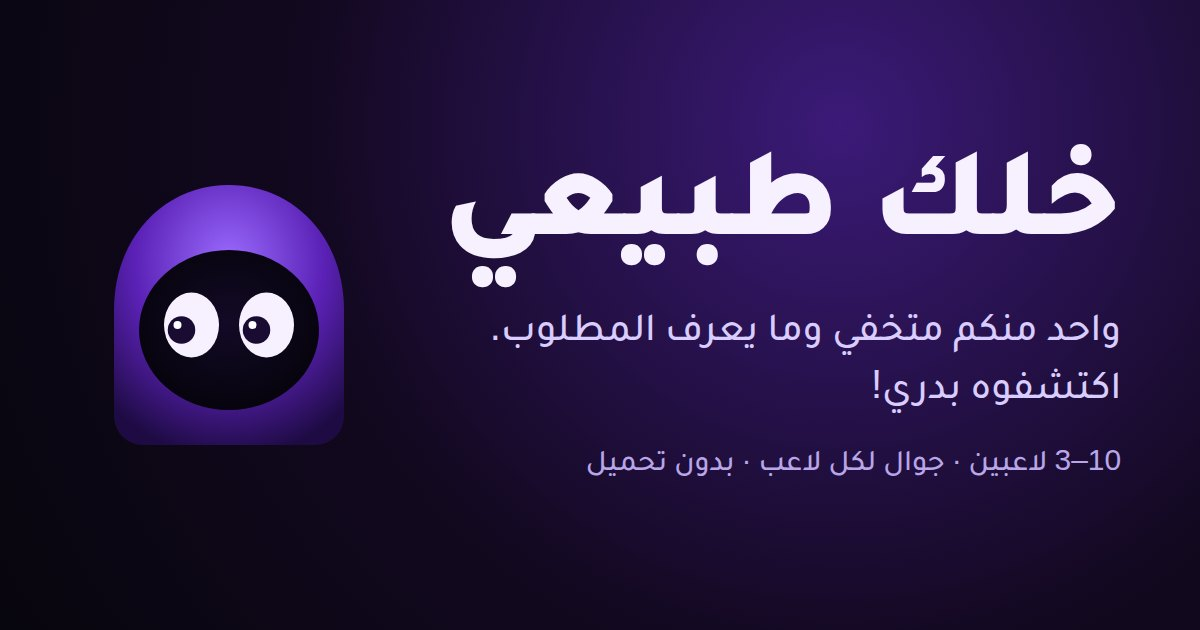
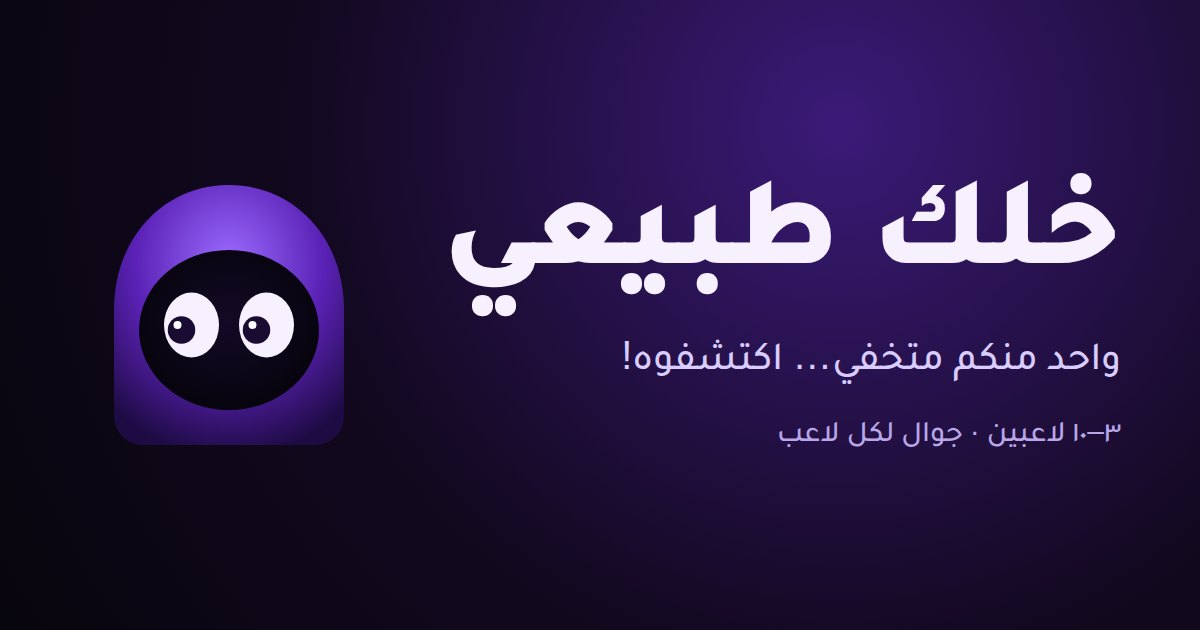
Apply the reviewed Arabic copy, link preview and first-time-player hints
Vote nudge, confirm and undo wording, end-game and close-room dialogs,
runtime and room-closed notices, meta/og descriptions, regenerated og.jpg,
a hint above the vote list, the owner-plays note, and neutral rules wording.

Claude-Session: https://claude.ai/code/session_017yJz3WryD3V2yimSvyagK2

Changed region(s): [[0.37, 0.2111, 0.9558, 0.754]]

diff --git a/client/src/net/socket.ts b/client/src/net/socket.ts
@@ -264,7 +264,7 @@ function dispatch(socket: WebSocket, message: ServerMessage): void {
       expectedRoomExit = false;
       authenticated(socket, message);
       set({ uid: message.uid, view: null, ...(hadRoom && !intendedExit ? {
-        notice: "لم تعد الغرفة متاحة أو انتهى مكانك فيها. أنشئ غرفة جديدة أو ادخل برمز جديد.",
+        notice: "الغرفة مو متاحة، أو مكانك فيها انتهى. سوّ غرفة جديدة أو ادخل برمز غرفة جديد.",
       } : {}) });
       if (hadRoom) clearPendingMatching(socket, () => true);
       break;
@@ -287,8 +287,8 @@ function dispatch(socket: WebSocket, message: ServerMessage): void {
     case "VOTE_IGNORED":
       if (message.rid) clearPending(message.rid, socket);
       feedback(message.reason === "CLOSED"
-        ? "انتهى وقت التصويت قبل وصول صوتك؛ ما تسجّل."
-        : "هذا التصويت كان لتحدّي سابق؛ اختر تصويتك للتحدّي الحالي.");
+        ? "خلص وقت التصويت قبل ما يوصل صوتك، وما تسجّل."
+        : "صوتك كان لتحدّي سابق وما تسجّل. إذا التصويت مفتوح الحين، اختر لاعب وأكّد تصويتك.");
       break;
     case "ERROR":
       if (message.rid && ["LEAVE_ROOM", "CLOSE_ROOM"].includes(pending.get(message.rid)?.type ?? "")) expectedRoomExit = false;
@@ -299,7 +299,7 @@ function dispatch(socket: WebSocket, message: ServerMessage): void {
     case "ROOM_CLOSED":
       expectedRoomExit = false;
       clearPendingMatching(socket, () => true);
-      set({ view: null, notice: "انتهت الغرفة. تقدر تنشئ غرفة جديدة أو تدخل برمز جديد." });
+      set({ view: null, notice: "الغرفة تقفلت. تقدر تسوّي غرفة جديدة أو تدخل برمز غرفة جديد." });
       break;
     case "KICKED":
       expectedRoomExit = false;
@@ -570,7 +570,7 @@ export const actions = {
       // Only pre-empt the deadline with a server-anchored clock. An unsynchronized
       // device clock can be far off; the server's own deadline stays authoritative.
       (view.room.phaseEndsAt !== undefined && serverClock.isSynchronized() && serverClock.now() >= view.room.phaseEndsAt)) {
-      feedback("التصويت هذا مو متاح الحين. انتظر تحديث حالة اللعبة.");
+      feedback("ما تقدر تصوّت الحين. انتظر لين تتحدّث اللعبة.");
       return null;
     }
     return sendAction({ t: "SUBMIT_VOTE", targetUid, voteContext });

diff --git a/client/src/screens/Player.tsx b/client/src/screens/Player.tsx
@@ -350,8 +350,9 @@ function PlayerVote({ view }: { view: ClientView }) {
             endsAt={view.room.phaseEndsAt}
             totalMs={TIMERS.VOTING}
             warningAtSeconds={VOTE_NUDGE_MS / 1_000}
-            warningText={picked ? "باقي ثواني — اضغط «أكّد» عشان ينحسب صوتك" : "باقي ثواني — اختر لاعب وأكّد صوتك"}
+            warningText={picked ? <>باقي ثواني — أكّد تصويتك على «<bdi>{pickedName}</bdi>»</> : "باقي ثواني — اختر لاعب، ثم أكّد تصويتك"}
           />
+          <p className="vote-hint">اختر لاعب، ثم اضغط «أكّد التصويت».</p>
         </div>
         <div
           className={`vote-list stage-vote-grid${picked ? " has-pick" : ""}`}
@@ -386,8 +387,8 @@ function PlayerVote({ view }: { view: ClientView }) {
           {pickedName ? <>صوتك لـ <strong dir="auto">{pickedName}</strong></> : "اختر لاعب، وبعدها أكّد."}
         </div>
         <div className="stage-vote-actions">
-          <button className="btn btn-primary" disabled={!picked || status !== "online" || submitting} onClick={() => picked && actions.submitVote(picked, view.voteContext)}>{submitting ? "جارٍ تسجيل صوتك…" : pickedName ? `أكّد التصويت على ${pickedName}` : "تأكيد التصويت"}</button>
-          {picked ? <button type="button" className="btn btn-quiet btn-sm stage-vote-undo" disabled={submitting} onClick={() => setPicked(null)}>تراجع</button> : null}
+          <button className="btn btn-primary" disabled={!picked || status !== "online" || submitting} onClick={() => picked && actions.submitVote(picked, view.voteContext)}>{submitting ? "نسجّل صوتك…" : pickedName ? `أكّد التصويت على ${pickedName}` : "أكّد التصويت"}</button>
+          {picked ? <button type="button" className="btn btn-quiet btn-sm stage-vote-undo" disabled={submitting} onClick={() => setPicked(null)}>غيّر اختيارك</button> : null}
         </div>
         <p className="helper">أثناء التصويت يظهر فقط كم شخص صوّت. ما يظهر مين صوّت لمين، وما تقدر تغيّر صوتك بعد التأكيد.</p>
       </div>

diff --git a/client/index.html b/client/index.html
@@ -5,13 +5,13 @@
     <meta name="viewport" content="width=device-width, initial-scale=1.0, viewport-fit=cover" />
     <meta name="theme-color" content="#07050d" />
     <title>خلك طبيعي</title>
-    <meta name="description" content="لعبة جماعية بالجوال: واحد منكم متخفي وما يعرف المطلوب. اكتشفوه بدري! 3–10 لاعبين، بدون تحميل ولا تسجيل." />
+    <meta name="description" content="واحد منكم متخفي وما يعرف المطلوب. اكتشفوه! لـ٣–١٠ لاعبين، كل واحد بجواله. بدون تحميل ولا تسجيل." />
     <link rel="icon" href="/favicon.svg" type="image/svg+xml" />
     <meta property="og:type" content="website" />
     <meta property="og:locale" content="ar_SA" />
     <meta property="og:site_name" content="خلك طبيعي" />
     <meta property="og:title" content="خلك طبيعي — مين المتخفي بينكم؟" />
-    <meta property="og:description" content="لعبة جماعية بالجوال: واحد منكم متخفي وما يعرف المطلوب. اكتشفوه بدري! 3–10 لاعبين، بدون تحميل ولا تسجيل." />
+    <meta property="og:description" content="واحد منكم متخفي وما يعرف المطلوب. اكتشفوه! لـ٣–١٠ لاعبين، كل واحد بجواله. بدون تحميل ولا تسجيل." />
     <meta property="og:image" content="__PUBLIC_ORIGIN__/og.jpg" />
     <meta property="og:image:width" content="1200" />
     <meta property="og:image:height" content="630" />

diff --git a/server/test/client-socket-recovery.test.ts b/server/test/client-socket-recovery.test.ts
@@ -94,7 +94,7 @@ test("lost membership reconnect clears stale room, explains recovery and never r
     const snapshot = browser.socketModule.getGameSnapshot();
     assert.equal(snapshot.status, "online");
     assert.equal(snapshot.view, null);
-    assert.match(snapshot.notice, /لم تعد الغرفة متاحة أو انتهى مكانك فيها/);
+    assert.match(snapshot.notice, /الغرفة مو متاحة، أو مكانك فيها انتهى/);
     assert.equal(second.sent.some((message) => message.t === "JOIN_ROOM" || message.t === "SUBMIT_VOTE"), false);
     assert.equal(browser.socketModule.actions.submitVote("target", "old-context"), null);
     assert.ok(browser.socketModule.actions.createRoom("مالك"));
@@ -120,7 +120,7 @@ test("intentional leave stays quiet across interrupted transport and closure per
     second.receive({ t: "STATE", view: { self: { uid: "u", role: "player" }, room: { code: "FGHJK", phase: "LOBBY" }, players: [] } });
     second.receive({ t: "ROOM_CLOSED" });
     assert.equal(browser.socketModule.getGameSnapshot().view, null);
-    assert.match(browser.socketModule.getGameSnapshot().notice, /تنشئ غرفة جديدة أو تدخل برمز جديد/);
+    assert.match(browser.socketModule.getGameSnapshot().notice, /تسوّي غرفة جديدة أو تدخل برمز غرفة جديد/);
     browser.socketModule.clearNotice();
     const joinRid = browser.socketModule.actions.joinRoom("FGHJK", "لاعب");
     second.receive({ t: "ERROR", code: "ROOM_NOT_FOUND", rid: joinRid });

diff --git a/client/src/screens/Home.tsx b/client/src/screens/Home.tsx
@@ -90,7 +90,7 @@ function RulesTabs() {
       <div id="home-panel-how" role="tabpanel" aria-labelledby="home-tab-how" className="home-tab-panel" hidden={tab !== "how"} tabIndex={0}>
         <ol className="rule-steps">
           <li>كل واحد يشوف المطلوب سرًا، إلا المتخفي يعرف دوره بس ما يعرف المطلوب.</li>
-          <li>وقت العد تنفذون الحركة كلّكم بنفس اللحظة.</li>
+          <li>انتظروا إشارة الحركة، ثم سوّوها كلكم بنفس اللحظة.</li>
           <li>بعدها تناقشون: مين تصرفه مو طبيعي؟ ثم كل واحد يصوّت بجواله.</li>
           <li>الأغلبية تمسك المتخفي. إذا ما انمسك يكمل دوره حسب عدد اللاعبين: تحدّي واحد مع 3 لاعبين، تحدّيين مع 4، و3 تحدّيات مع 5 أو أكثر.</li>
         </ol>
@@ -195,7 +195,7 @@ export function Home() {
           <button className="btn btn-secondary" disabled={offline} onClick={() => { setLocalErr(null); setStep("code"); }}>
             ادخل غرفة
           </button>
-          <p className="helper home-actions-note">صاحب الغرفة لاعب مثل الباقين</p>
+          <p className="helper home-actions-note">صاحب الغرفة يلعب من جواله، والتلفزيون اختياري.</p>
         </div>
 
         <RulesTabs />

diff --git a/client/src/screens/Host.tsx b/client/src/screens/Host.tsx
@@ -36,7 +36,7 @@ export function Host({ view, confirmAction }: { view: ClientView; confirmAction:
   }
 }
 
-const CLOSE_ROOM_DESCRIPTION = "بتنقفل الغرفة على الكل، وأي أحد يبي يلعب بعدها لازم يدخل من جديد برمز غرفة جديدة.";
+const CLOSE_ROOM_DESCRIPTION = "بتتقفل الغرفة على الكل. عشان تلعبون بعدها، لازم تدخلون غرفة جديدة.";
 
 function requestClose(confirmAction: ConfirmAction, description = CLOSE_ROOM_DESCRIPTION) {
   confirmAction({
@@ -257,7 +257,7 @@ function HostGameOver({ view, confirmAction }: { view: ClientView; confirmAction
       <div className="owner-dock">
         <div className="owner-dock-row">
           <button className="btn btn-primary" onClick={() => actions.rematch()}>العبوا مرة ثانية</button>
-          <button className="btn btn-secondary" onClick={() => requestClose(confirmAction, `${CLOSE_ROOM_DESCRIPTION} إذا تبون تلعبون مرة ثانية بنفس الغرفة، اختر «العبوا مرة ثانية» بدل الإغلاق.`)}>إغلاق الغرفة</button>
+          <button className="btn btn-secondary" onClick={() => requestClose(confirmAction, `${CLOSE_ROOM_DESCRIPTION} تبون تكملون بنفس الغرفة؟ اختر «العبوا مرة ثانية».`)}>إغلاق الغرفة</button>
         </div>
       </div>
     </div>

diff --git a/server/test/ux-explanations.test.ts b/server/test/ux-explanations.test.ts
@@ -152,3 +152,14 @@ test("user-facing source locks the explainability and Arabic copy improvements",
   assert.equal(app.includes("عنوان IP"), false, "technical IP wording returned to room-management UI");
   assert.equal(app.includes("الهوية المجهولة الموقّعة"), false, "implementation-level identity wording returned");
 });
+
+test("vote copy separates picking from confirming and wraps the picked name in bdi", () => {
+  const player = readFileSync(new URL("../../client/src/screens/Player.tsx", import.meta.url), "utf8");
+  assert.ok(player.includes("باقي ثواني — اختر لاعب، ثم أكّد تصويتك"));
+  assert.match(player, /أكّد تصويتك على «<bdi>\{pickedName\}<\/bdi>»/);
+  assert.ok(player.includes("اختر لاعب، ثم اضغط «أكّد التصويت»."), "the hint above the list says picking is not voting");
+  assert.ok(player.includes("غيّر اختيارك") && !player.includes(">تراجع<"));
+  const home = readFileSync(new URL("../../client/src/screens/Home.tsx", import.meta.url), "utf8");
+  assert.ok(home.includes("صاحب الغرفة يلعب من جواله، والتلفزيون اختياري."));
+  assert.ok(!home.includes("وقت العد"));
+});

diff --git a/client/src/App.tsx b/client/src/App.tsx
@@ -260,8 +260,8 @@ export function App() {
               label="إنهاء اللعبة"
               onClick={() => openConfirm({
                 title: "إنهاء اللعبة الحالية؟",
-                description: "بترجعون كلكم لشاشة الانتظار في نفس الغرفة وبنفس اللاعبين، وتقدر تغيّر الإعدادات وتبدأ لعبة جديدة. نقاط اللعبة الحالية ما تنحسب. ولو تبي تقفل الغرفة نهائيًا، تلقى «إغلاق الغرفة» في شاشة الانتظار.",
-                confirmLabel: "إنهاء والرجوع للانتظار",
+                description: "بترجعون للانتظار بنفس الغرفة ونفس اللاعبين. نقاط هاللعبة ما تنحسب، وتقدر تغيّر الإعدادات وتبدأ من جديد.",
+                confirmLabel: "إنهاء اللعبة والرجوع للانتظار",
                 actionType: "RETURN_TO_LOBBY",
                 run: actions.returnToLobby,
               })}

diff --git a/client/src/main.tsx b/client/src/main.tsx
@@ -55,11 +55,11 @@ function RuntimeRecovery() {
   return (
     <main className="screen stack center" role="alert">
       <h1 className="title">صار خطأ في عرض اللعبة</h1>
-      <p className="subtitle">حدّث الصفحة ونحاول نرجعك للغرفة إذا مكانك محفوظ.</p>
+      <p className="subtitle">حدّث الصفحة. بنحاول نرجعك للغرفة إذا مكانك باقي محفوظ.</p>
       <button type="button" className="btn btn-primary" onClick={() => location.reload()}>تحديث الصفحة</button>
       {/* Safari can keep a failed download for the life of the tab, so a reload
           alone may not recover; a fresh tab does. */}
-      <p className="subtitle">إذا رجع نفس الخطأ بعد التحديث، سكّر الصفحة وافتح رابط اللعبة من جديد.</p>
+      <p className="subtitle">إذا رجع الخطأ بعد التحديث، سكّر هالتبويب وافتح رابط اللعبة في تبويب جديد.</p>
     </main>
   );
 }

diff --git a/client/src/i18n/errors.ts b/client/src/i18n/errors.ts
@@ -23,7 +23,7 @@ export const ERROR_AR: Record<ErrorCode, string> = {
   KICKED: "المضيف طلعك من الغرفة. إذا تبي ترجع، لازم يسمح لك أول",
   RATE_LIMITED: "شوي شوي، جرّب بعد لحظة",
   BAD_REQUEST: "ما ضبطت، جرّب مرة ثانية",
-  CLIENT_UPDATE_REQUIRED: "حدّث الصفحة عشان تكمل التصويت. اللعبة محفوظة في غرفتك.",
+  CLIENT_UPDATE_REQUIRED: "حدّث الصفحة عشان تقدر تصوّت. بنحاول نرجعك لنفس الغرفة.",
   UNAUTHORIZED: "حدّث الصفحة وجرّب مرة ثانية",
   DISPLAY_IN_USE: "فيه شاشة عرض ثانية مربوطة بالغرفة الحين",
   SERVER_RESTARTING: "قاعدين نحدّث الخدمة الحين؛ انتظر شوي قبل تبدأ لعبة جديدة",

diff --git a/client/src/styles.css b/client/src/styles.css
@@ -78,6 +78,7 @@ h1.brand { font-size: var(--text-hero); }
 }
 .title { margin: 0; font-size: var(--text-title); font-weight: 800; line-height: var(--leading-snug); color: var(--ink-strong); text-wrap: balance; }
 .subtitle { margin: 0; color: var(--ink-muted); font-size: var(--text-lede); line-height: var(--leading-body); }
+.vote-hint { margin: 0; color: var(--ink-subtle); font-size: var(--text-caption); line-height: 1.6; text-align: center; }
 .helper { color: var(--ink-subtle); font-size: var(--text-caption); line-height: 1.6; }
 .center { text-align: center; }
 .stack { display: flex; flex-direction: column; gap: var(--space-3); }

diff --git a/client/src/ui/StageTimer.tsx b/client/src/ui/StageTimer.tsx
@@ -1,4 +1,4 @@
-import { useEffect, useState } from "react";
+import { useEffect, useState, type ReactNode } from "react";
 import { estimatedServerNow } from "../net/clock.js";
 
 function remainingMs(endsAt: number | undefined): number | null {
@@ -43,7 +43,7 @@ export function StageTimer({
   totalMs?: number;
   variant?: "pill" | "ring";
   warningAtSeconds?: number;
-  warningText?: string;
+  warningText?: ReactNode;
   /** Short cue beats (hold) stay calm; only decision windows escalate. */
   urgent?: boolean;
 }) {
